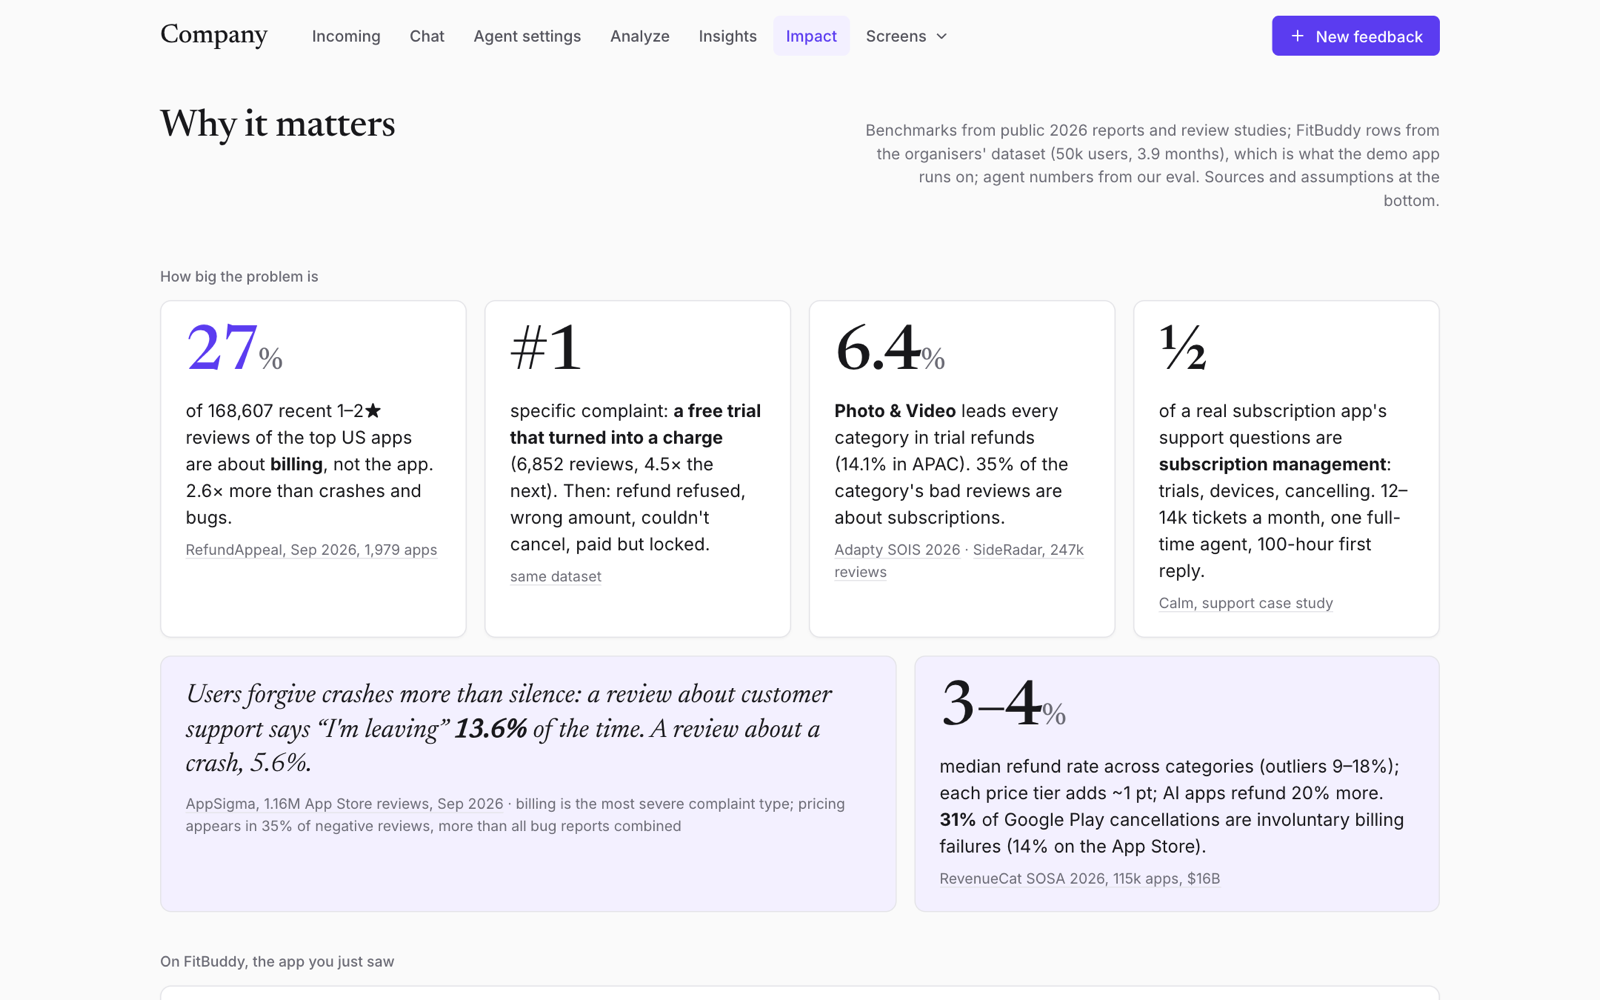
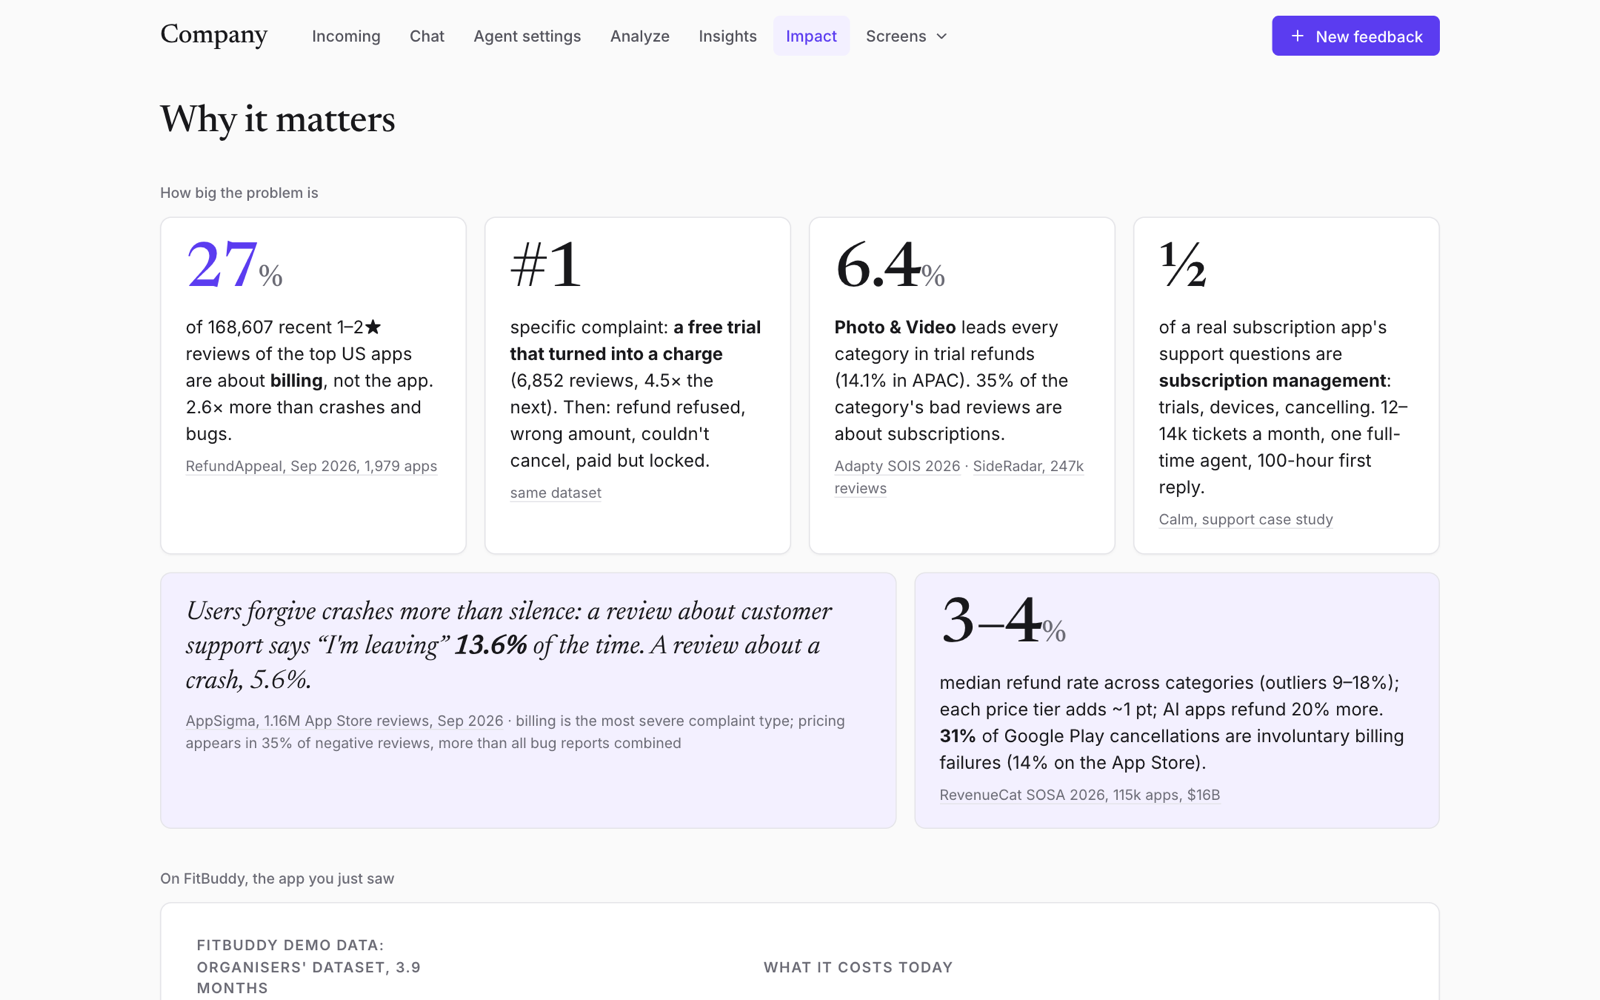
Retake the README screenshots after the style pass
Claude-Session: https://claude.ai/code/session_01X7Eukq8YNNVaHxwu6bg8h1

diff --git a/docs/history/AI_LOG.md b/docs/history/AI_LOG.md
@@ -59,6 +59,7 @@ How AI was used to build Resolve, what it got wrong, and how we caught it. Appen
 | After the event, fork cleanup | Claude Code | Remove the old UIs, rebuild the docs, take screenshots | Deleting `ui-alex` as fully replaced would have lost one control: comparing it with the new screens found the Run triage button missing, so it was ported first | Compared the two UIs before deleting and clicked the new button on an untriaged ticket |
 | After the event, Jira | Claude Code | Bug reports from Level 1 to the teams in Jira | With the first version the agent's replies said the team had the report while the issue waited for a click, so sending a reply now files it, and without Jira the model is offered no team | Ran the real model on 8 tickets against a local stand-in checked against Jira's published schema; clicked through the screens; 4 clicks at once filed one issue |
 | After the event, style | Claude Code | One visual system from a strict design review: `tokens.css`, one header and grid | The review's sketch replaced the Ticket dials and stamps with a number and a plain button; the owner wanted them kept and polished, so they were rebuilt on the tokens. Removing the Analyze table also nearly broke the CSV head, caught before it ran | Shot every screen, sent a reply through the stamp on a copy, downloaded the CSV |
+| After the event, dials | Claude Code | Captions that only explain a screen removed; a separate agent reworked the dials, stamps and postmark and tried glass | Glass added nothing over opaque paper: unseen on white, blurred the ticks, and dropped a sticky send bar's label below AA, so it was left out. Date rollover emptied the Analyze screenshot's Today view | Measured centring on 225 digit captures, compared glass variants on screenshots, viewed the new README shots and retook Analyze over 7 days |
 
 ## Prompts that worked
 

diff --git a/docs/design/README.md b/docs/design/README.md
@@ -28,6 +28,8 @@ These files run inside the Design canvas runtime, not as standalone pages. For s
 
 ## Tokens
 
+The values below are from the original brief, kept for history. The current ones are in `resolve/static/ui/tokens.css`.
+
 - Base: white. Page `#fafafa` with a soft violet haze (radial `rgba(124,92,255,.12)` top-left, `rgba(176,148,255,.11)` top-right, `rgba(124,92,255,.07)` bottom).
 - Cards `#fff`, border `#ebe8f6`, radius 10, a lavender wash at the top (`#faf8ff` → `#fff` over 180px). Controls radius 6.
 - Text `#18181b`, secondary `#52525b`, muted `#6b6b75`; hairlines `#ececf0` / `#f2f2f4`.
